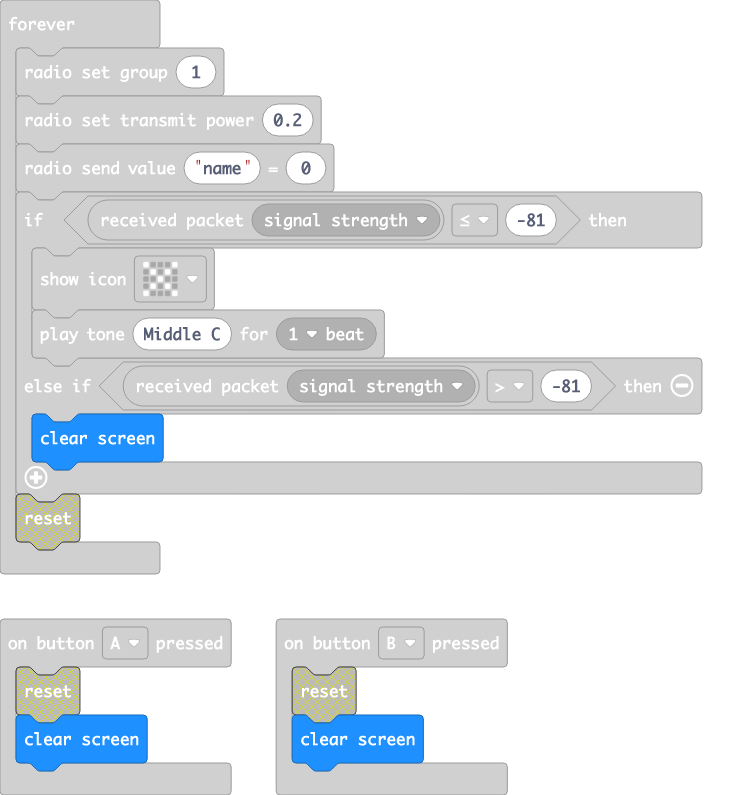
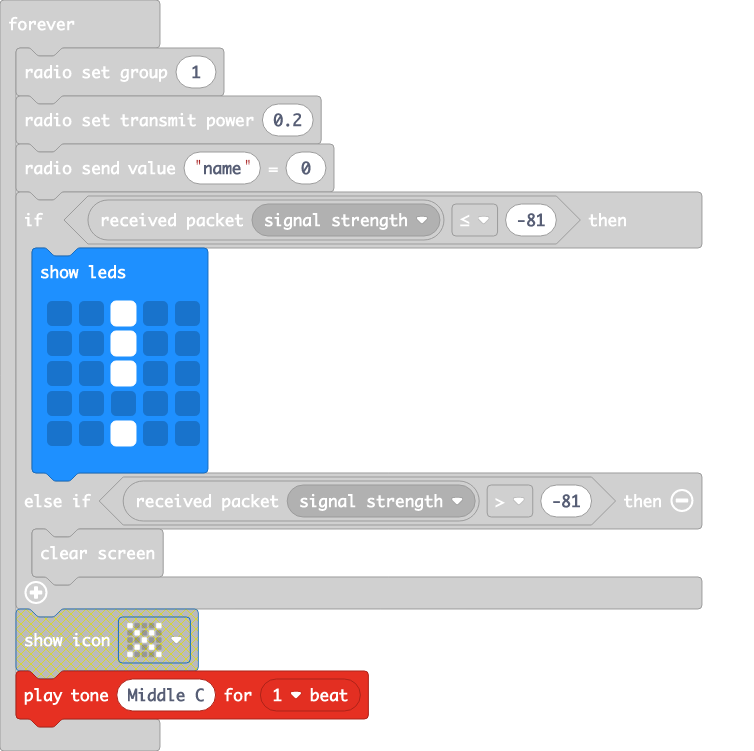
Update main.blocks, main.ts

diff --git a/main.ts b/main.ts
@@ -14,7 +14,13 @@ basic.forever(function () {
     radio.setTransmitPower(0.2)
     radio.sendValue("name", 0)
     if (radio.receivedPacket(RadioPacketProperty.SignalStrength) <= -81) {
-        basic.showIcon(IconNames.No)
+        basic.showLeds(`
+            . . # . .
+            . . # . .
+            . . # . .
+            . . . . .
+            . . # . .
+            `)
         music.playTone(262, music.beat(BeatFraction.Whole))
     } else if (radio.receivedPacket(RadioPacketProperty.SignalStrength) > -81) {
         basic.clearScreen()
